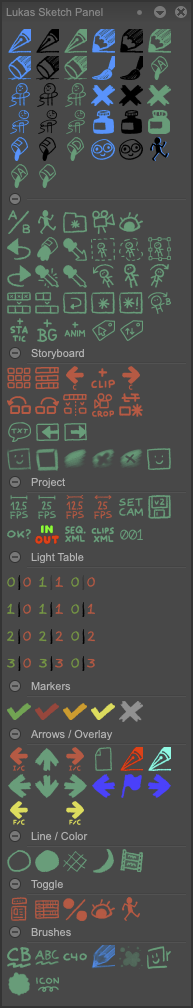
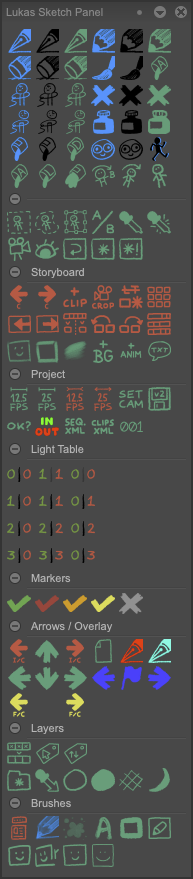
Updated readme and screenshot to 2.9

diff --git a/README.md b/README.md
@@ -28,6 +28,13 @@ Keyboard shortcut | Panel button
 ## Changelog
 <img align="right" src="screenshot.png">
 
+- [3.0]
+  - New panel layout
+  - Added dynamic font size to `Add Dialogue` (based on Consolas font).
+  - Updated `Create Anim Layer` to create layer at current frame above selected layer.
+  - Added option to overwrite last render with `Render Clips With XML` (Pro only).
+  - Updated `Eraser` to use improved presets.
+  - Updated `Mark Selected Instances Color` to color layer instead, if layer is static.
 - [2.9]
   - Reworked `Rotate Brush by Increments`
 - [2.8]
